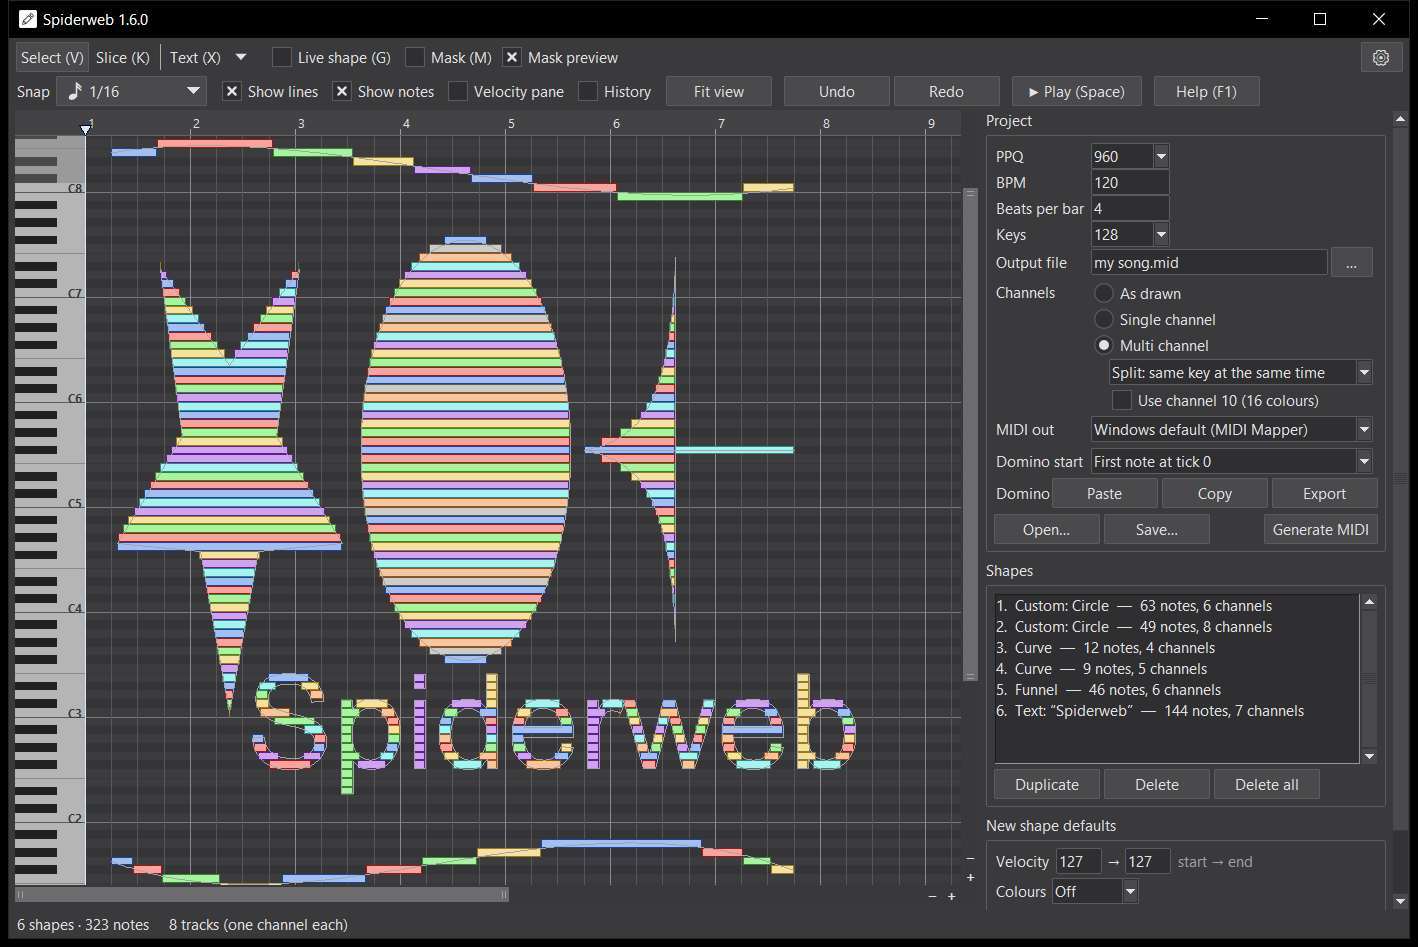
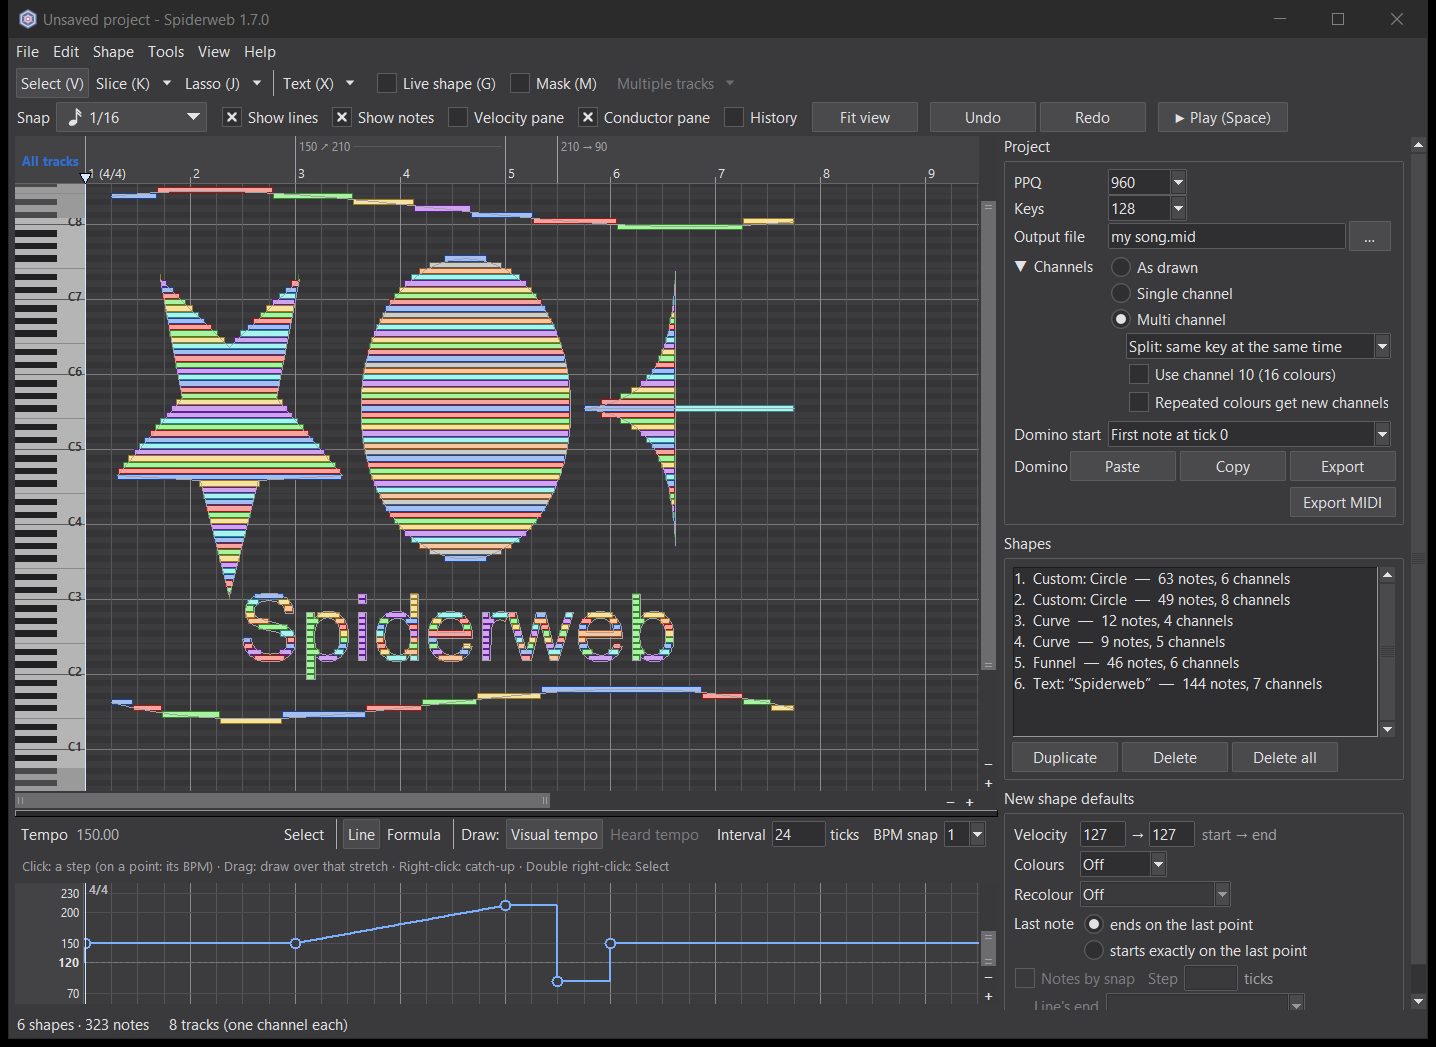
README updated for 1.7.0
- Changed the README to list Load MIDI, the track list, the Conductor pane and Kestrel
- Added a note that Spiderweb isn't a MIDI sequencer
- Changed the README picture to the new window with the Conductor pane

diff --git a/README.md b/README.md
@@ -4,7 +4,11 @@
 and works much like Domino's) and every key your drawing crosses gets a note: a slanted line becomes a smooth
 staircase of notes, a filled circle becomes a round block of notes.
 
-![Spiderweb's main window: a star, an oval, a funnel, curves and the word "Spiderweb" made of coloured notes](pictures/hero_dark.png)
+**It's not a MIDI sequencer.** It isn't made for writing a song note by note: there are no tools for placing or
+editing single notes, no controller (CC) editing outside the Hz bass, and no instruments or plugins. Make your
+shapes here, then finish the song in a sequencer like Domino.
+
+![Spiderweb's main window: a star, an oval, a funnel, curves and the word "Spiderweb" made of coloured notes, with the tempo drawn in the Conductor pane below](pictures/hero_dark.png)
 
 ### [Download the newest Spiderweb.exe](https://github.com/UnPrioritized/Spiderweb/releases/latest)
 
@@ -23,10 +27,15 @@ Windows, nothing to install. Linux and Windows users can also [run it from sourc
   can hear right away.
 - **Image to notes:** turn an image into notes in up to 15 colours (16 with channel 10).
 - **Note tools:** Claw machine, Strum and Chop pages that change the notes of a shape, Add between (shapes that step
-  from one shape to another), slicing and merging.
+  from one shape to another), Recolour, Gate trim, Fill gaps, slicing (with a line, a Lasso loop or another shape)
+  and merging.
+- **Load MIDI:** open a MIDI file, even a huge dense one, draw on top of it, change its tempo, reorder or draw into
+  its tracks; the export changes only what you changed.
+- **Track list and Conductor pane:** see and arrange the tracks your MIDI will have (Tab), and draw the tempo as a
+  line with jumps, glides and catch-ups, plus time and key signatures.
 - **Share shapes** with others as one line of text.
-- **Play it as you go**, then write a .mid file, or copy the notes straight into Domino (and paste notes from
-  Domino, or save a Domino song file).
+- **Play it as you go** (Built-in BASSMIDI, or Kestrel on the graphics card for walls of notes), then write a .mid
+  file, or copy the notes straight into Domino (and paste notes from Domino, or save a Domino song file).
 - **Settings:** light or dark look, your own note colours, size, font and language.
 
 | Every key a line crosses gets a note | Nested fill: copies inside copies | Hz bass synth window |
@@ -63,7 +72,8 @@ mouse shortcuts.
 | Right-drag | Listen to the notes under the mouse |
 | Wheel | Scroll (Ctrl+wheel = zoom, middle-drag = scroll) |
 | Ctrl+Z / Ctrl+Y | Undo / redo |
-| Export MIDI | (Project, on the right) writes the .mid file |
+| Tab | Track list ↔ piano roll |
+| Ctrl+E | Export MIDI (File menu): writes the .mid file |
 
 ## Good to know
 
@@ -73,7 +83,12 @@ mouse shortcuts.
 - With Multi channel, each channel goes into its own track, from that track down.
 - Use the same PPQ in both: the ticks are copied as they are.
 - **Pasting** works the other way too: notes copied in Domino (Ctrl+C there) and pasted in Spiderweb (Ctrl+V) become
-  one shape, starting at the play line. Only the notes come along (no controllers).
+  one shape, starting at the play line. The tempo, signatures, CC, pitch bend and program changes come along too.
+
+**Copying to other programs (Spiderweb Notes)**
+- With Settings → General → "Ctrl+C also copies as Spiderweb Notes" ticked, Ctrl+C also puts the finished music on
+  the clipboard in a format any program can read. If you make a MIDI program and want to paste from Spiderweb,
+  [SPIDERWEB-NOTES-FORMAT.md](SPIDERWEB-NOTES-FORMAT.md) describes it (free to use).
 
 **PPQ and keys**
 - Domino can't open MIDI files with a PPQ of 32767 or higher. Spiderweb warns you (the PPQ turns red) but still
@@ -87,12 +102,14 @@ mouse shortcuts.
   instead (its points, box, fill and note settings).
 - Editing the notes in Domino and pasting them back works, but it can change which channels they are on. To keep the
   colours (channels), right-click the shape and pick **Turn into plain notes** instead: the notes stay on their
-  channels, and you can cut them with the Slice tool.
+  channels, and you can cut them with the Slice or Lasso tool.
 - Domino can't hold notes longer than 65,535 ticks. Copy and Export to Domino cut them to that length and tell you.
 
-**Autosave and problems**
+**Saving and problems**
+- Projects save as .spwb files (packed; older .json projects still open). Drop a project or a MIDI onto the window
+  or onto Spiderweb's icon to open it. Settings → General can make .spwb files open with a double-click (Windows).
 - Everything you do is saved on its own (`user/autosave.json`). Each time Spiderweb starts, the previous session is
-  also kept as `autosave-backup.json`: open it with Open... if something went wrong.
+  also kept as `autosave-backup.json`: open it with File → Open… if something went wrong.
 - If Spiderweb runs into an error, the details go to `spiderweb-error.log` next to it. If it closes by itself,
   `spiderweb-crash.log` there says where (it's written the next time Spiderweb starts). Please include these files
   when you [report a problem](https://github.com/UnPrioritized/Spiderweb/issues).
